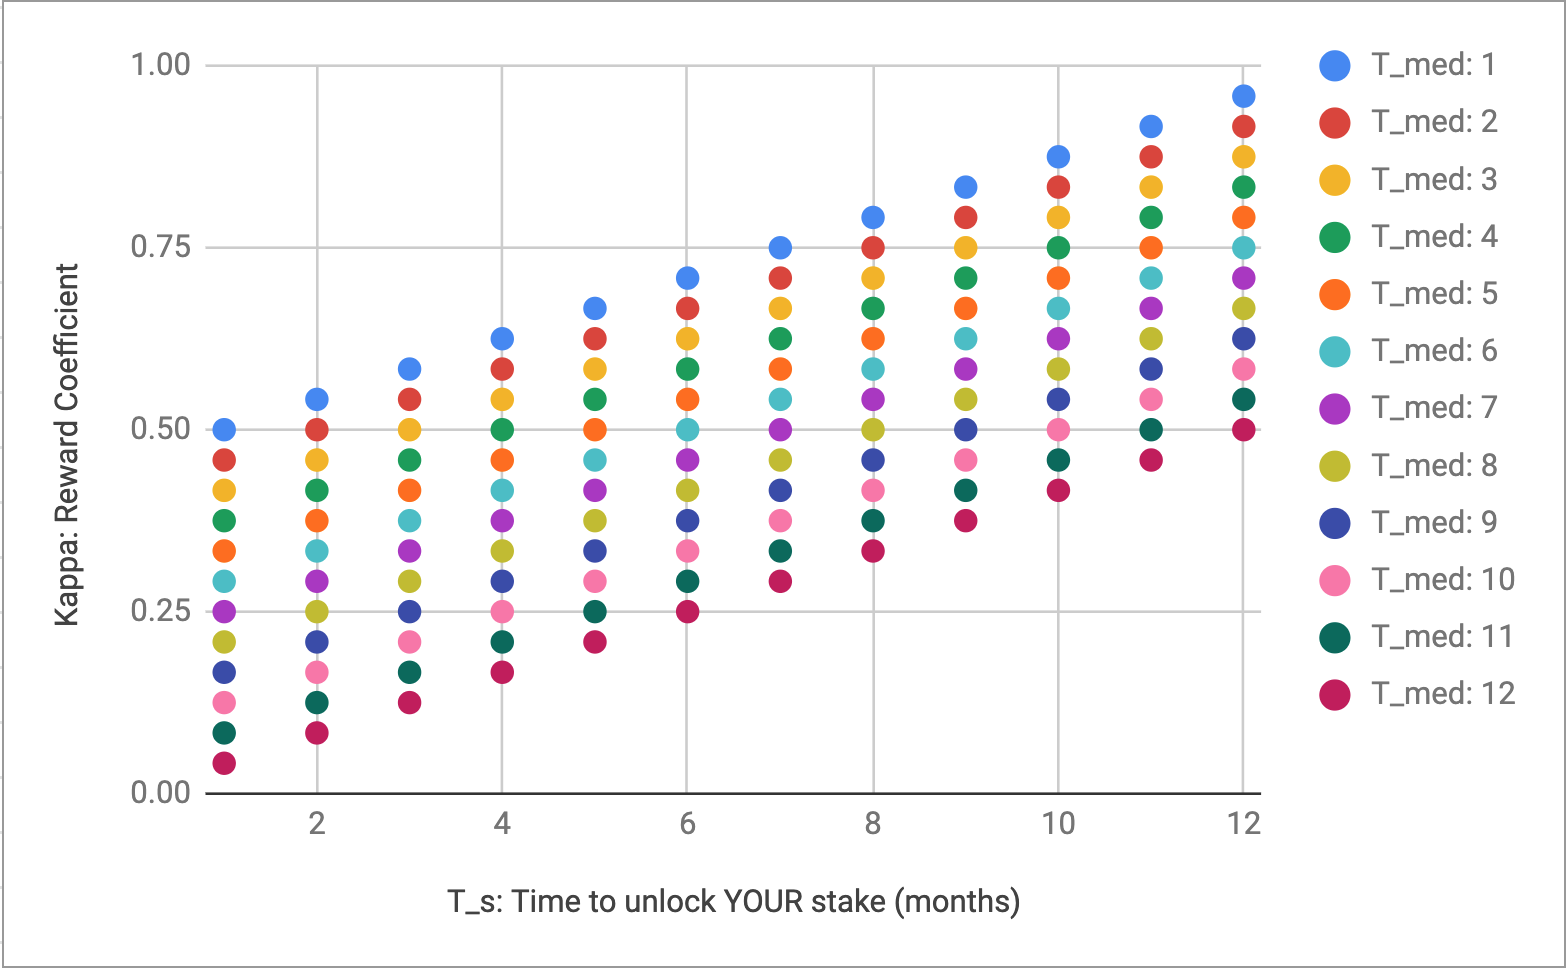
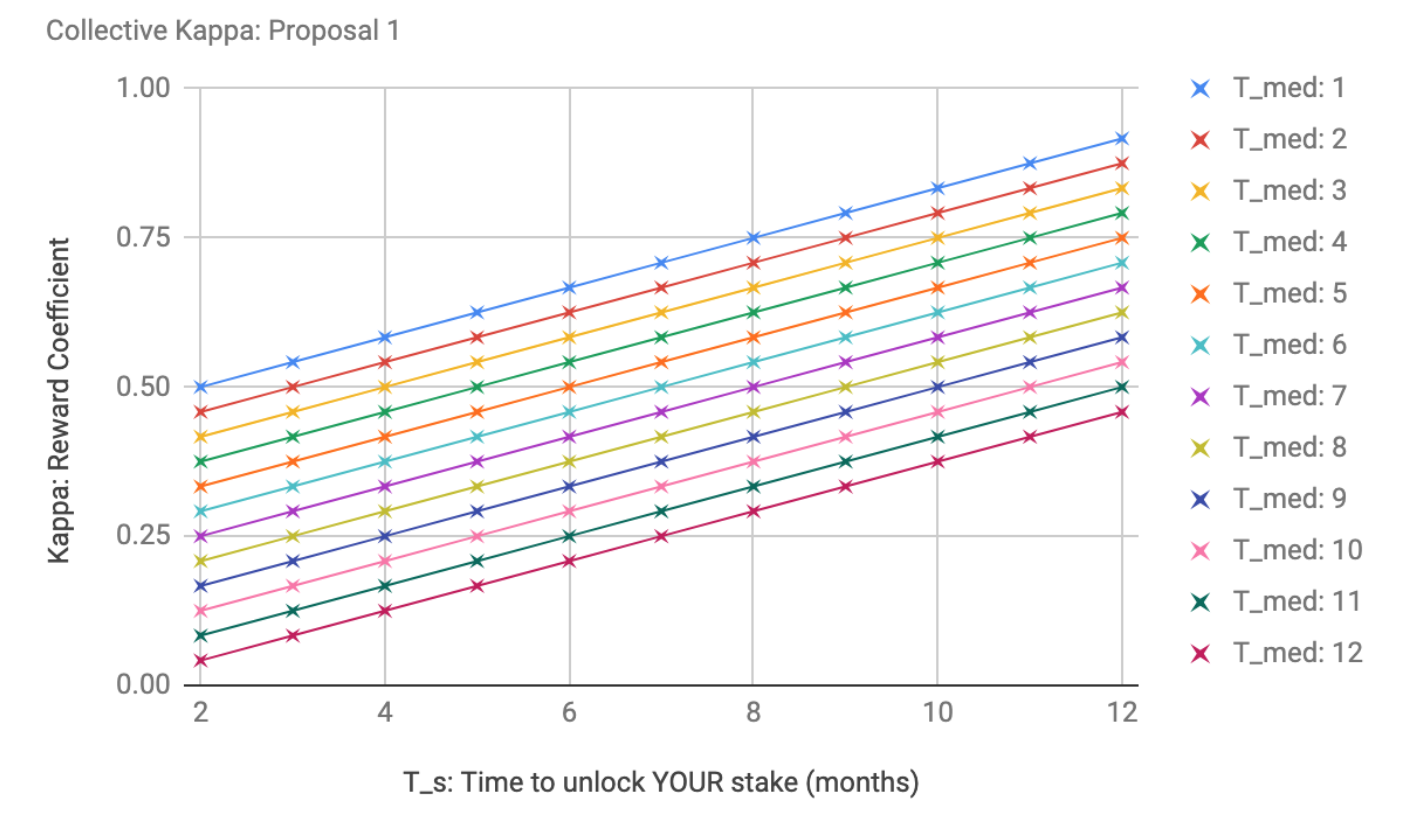
New proposal for coefficient calculation. Expansion to reasoning.

diff --git a/collective_kappa3.py b/collective_kappa3.py
@@ -1,0 +1,22 @@
+
+
+min_kappa = 0.25
+T_max = 12
+
+def calc_c_kappa(T_med, T_s):
+	if T_s < T_med + 1:
+		c_kappa = 0.25
+	else:
+		c_kappa =  min_kappa + (T_s-T_med)/float(16-T_med)
+
+	return c_kappa
+
+example_output1  = calc_c_kappa(T_med = 2, T_s = 3)
+print(example_output1)
+#0.32
+example_output2  = calc_c_kappa(T_med = 10, T_s = 11)
+print(example_output2)
+#0.42
+example_output3  = calc_c_kappa(T_med = 4, T_s = 11)
+print(example_output3)
+#0.83

diff --git a/collective_kappa.md b/collective_kappa.md
@@ -2,28 +2,30 @@
 
 #### Problem #### 
 
-Currently, stakers choose to lock their NU tokens for a variety of durations, in units of month. The staker's inflation-based rewards are modified by the reward coefficient 'kappa', which can be any of 12 discrete figures between 0.54 (= 1 month lock) and 1.0 (>= 12 months lock) – 0.54, 0.58, 0.63, etc. The longer you commit your stake, the higher the coefficient. 
+Currently, stakers/workers choose to lock their NU tokens for a variety of durations, in units of month. The staker's inflation-based rewards are modified by the reward coefficient 'kappa', which can be any of 12 discrete figures between 0.54 (= 1 month lock) and 1.0 (>= 12 months lock) – 0.54, 0.58, 0.63, etc. The longer you commit your stake, the higher the coefficient.
 
-However, this coefficient is static with respect to the choices of other stakers, despite the fact that their collective choice have a profound effect on the utility of the network, particularly if too many stakers choose short durations (1, 2 months etc). 
+However, this reward coefficient is determined entirely by the individual staker’s choice of duration, and is completely static with regard to the wider reality of the network, and more specifically, what other stakers have chosen for their durations. It is the aggregate of stakers’ choices that truly impacts the utility of the network, and yet this has no bearing whatsoever on the kappa coefficient. If too many stakers choose short durations, this can seriously impede network users.
 
 For the sake of argument, let's say that stakers choose short durations for any of the following three preferences:
 1. to protect their assets against risk (e.g. the NU token significantly depreciating while their holding is locked)
 2. to minimise opportunity costs (e.g. not being able to afford to migrate capital over to another more promising network)
 3. to afford real-world short-term spending requirements (e.g. paying a monthly bill to an ISP).
 
-Obviously, the actual list of preferences (i.e. explanations) for short term staking is longer, more complicated, and probably impossible to exhaustively produce. However, even if our three-point list did cover all possible preferences, it would still be very, very difficult to predict the strength of preference for each amongst a group of stakers at any given moment (as the population of stakers  and individual staker preferences change over time). Although a higher reward coefficient (i.e. extra compensation) for longer staking is specifically designed to counter-act the preference for shorter staking, as designers we have no real idea how strongly those preferences are held by stakers, what they're worth in money terms, or even what all those preferences are. The inability to predict or quantify these preferences means it is far from guaranteed we will parameterize the corresponding reward coefficient correctly in advance.
+Obviously, the actual list of preferences (i.e. explanations) for short term staking is longer, more complicated, and probably impossible to exhaustively produce. However, even if our three-point list did cover all possible preferences, it would still be very, very difficult to predict the strength of preference for each amongst a group of stakers at any given moment in the future. Plus, both population of stakers and each individual staker’s preferences will unpredictably change over time. Although a higher reward coefficient (i.e. extra compensation) for longer staking is specifically designed to counteract the preference for shorter staking, the problem is that we as designers have no real idea how strongly those preferences are held, what they're worth in money terms, or even what all of those preferences are. The inability to predict or quantify these preferences means it is far from guaranteed we will parameterize the corresponding reward coefficient correctly in advance of network launch, or even through updates later (although later updates allow observation-based changes to the coefficient, it may already be too late to save the network).
 
 Launching the network with parameters that mismatch our stakers' preferences is problematic, or indeed if this incongruence occurs at any point while the network is live. For example, if the coefficient for longer staking is not enough to persuade a sufficient number of stakers to commit for long periods, this may lead to network users being unable to issue long term sharing policies, particularly if they require larger numbers of independent stakers to faciliate their sharing flow. This may also undermine user confidence in the long-term reliability of the network. An excessive amount of short stake durations can also cause greater token price volatility. 
 
 #### Solution #### 
 
-A solution to this problem is to implement a flexible, self-correcting reward coefficient, driven by the staking duration decisions of all network participants. Ideally, we want to legislate against group swings to either extreme (majority choosing short durations or majority choosing long durations).
+A solution to this problem is to implement a flexible, self-correcting reward coefficient, driven by the staking duration decisions of all network participants. Ideally, we want to legislate against group swings to either extreme (majority choosing short durations or majority choosing long durations) – but we have a general preference for longer-term staking, since the implications for network utility are far less severe. 
 
-Our desired algorithm will do the following: if a majority of stakers have chosen short durations, the reward coefficient increases for stakers who now choose longer durations, and decreases for stakers who now choose shorter durations. And vice versa. This provides extra incentive to go against the crowd, thereby providing a balancing mechanism. 
+Our desired algorithm will do the following: if a majority of stakers have chosen short durations, the reward coefficient increases for stakers who now choose longer durations, and decreases for stakers who now choose shorter durations. And vice versa. 
 
-Note: to avoid stakers gaming the system, the reward coefficient can be calculated at the moment the staker formally chooses and submits their duration for a given set of tokens, and this will stay fixed at that rate until the tokens unlock. It would also help stakers a lot if the current median duration of stakes was accessible via the CLI or other staker interface, so they can make an informed decision. 
+This provides an extra incentive to go against the crowd, thereby providing a balancing mechanism. We cannot predict the future external factors that will collectively influence the stakers’ commitment length to the network, so instead we can attempt to capture these factors via the collective preferences of stakers, and use these to modify the reward coefficient appropriately. 
 
-Note: this approach will have an impact on the rate of token release - this needs to be thought about. 
+Note: to avoid stakers gaming the system, the reward coefficient can be calculated at the moment the staker formally chooses and submits their duration for a given set of tokens, and then can stay fixed at that rate until those tokens unlock. It would also help stakers a lot if the current average duration of stakes, and therefore the going reward rates, were accessible via the CLI or notherother staker-facing interface, so they can make an informed decision.
+
+Note: this approach will impact the rate of tokens released. 
 
 #### Historical Examples #### 
 
@@ -55,9 +57,11 @@ One criticism of their approach is this function's reliance on predefining a tar
 
 #### Input variable: T_med #### 
 
-What is the input variable with which to modify our reward coefficient? There are actually a number of possibilities here – since stakers can theoretically divide their stake into as many durations as the number of tokens they own, the overall distribution of stake durations is rather complex. However, a simple approach is to line up all the tokens already staked by their individual duration attribute (from 1 to <12). For now, we can ignore who owns the token or how long their other tokens are staked for. From this two-column table it is straightforward to derive the median duration of all staked tokens. We will use this variable, T_med, as our input, which will always be in discrete units of month (e.g. T_med = 4 months). 
+What is the input variable with which to modify our reward coefficient? There are actually a number of possibilities here – because stakers can theoretically divide their stake into as many durations as the number of tokens they own. However, a simple approach is to line up all the tokens already staked by their individual duration attribute (from 1 to <12). For now, we can ignore who owns the token or how long their other tokens are staked for. From this two-column table it is straightforward to derive the mean, weighted mean or median duration of all staked tokens. We will use this variable, T_med, as our input, which will always be in discrete units of month (e.g. T_med = 4 months). 
 
 #### Modifying the reward coefficient: c_kappa #### 
+
+*Proposal 1*
 
 The following python function computes a reward coefficient for a stake with a chosen a duration of T_s, where the current median duration of stakes is T_med. The output coefficient is normalised between 0 and 1.
 
@@ -96,8 +100,64 @@ To get a sense of the outputs, here are all the combinatins of T_s and T_med. Fo
 | T_s: 12 | 0.96     | 0.92     | 0.88     | 0.83     | 0.79     | 0.75     | 0.71     | 0.67     | 0.63     | 0.58      | 0.54      | 0.50      |
 
 
-![Visualised outputs in a scatter graph](collective_kappa_outputs.png)
+![Proposal 1: visualised outputs in a scatter graph](collective_kappa_outputs.png)
 
+*Proposal 2*
+
+Based on @michwill’s suggestion to swap T_med = 1 and T_med = 12. 
+
+![Proposal 2: visualised outputs in a scatter graph](collective_kappa_outputs2.png)
+
+*Proposal 3*
+
+This algorithm uses a varying output gradient (see graph below) in order to to: 
+1) fulfil the original purpose of collective kappa – namely, to provide extra rewards for going against the crowd (particularly when the average staking duration is dangerously short). 
+But simultaneously goes some way to:
+2) avoid the issue of **overly** rewarding short duration stakers, in the scenario where the average staking duration is very short, **relative** to two other possible configurations:
+ a) choosing a longer choice of staking duration in the same scenario 
+ b) choosing the same (short) staking duration in other scenarios (e.g. when the average staking duration is very long)
+
+```sh
+min_kappa = 0.25
+T_max = 12
+
+def calc_c_kappa(T_med, T_s):
+    if T_s < T_med + 1:
+        c_kappa = 0.25
+    else:
+        c_kappa =  min_kappa + (T_s-T_med)/float(16-T_med)
+
+    return c_kappa
+
+example_output1  = calc_c_kappa(T_med = 2, T_s = 3)
+print(example_output1)
+#0.32
+example_output2  = calc_c_kappa(T_med = 10, T_s = 11)
+print(example_output2)
+#0.42
+example_output3  = calc_c_kappa(T_med = 4, T_s = 11)
+print(example_output3)
+#0.83
+
+```
+Full coefficient output table:
+
+|         | T_med: 1 | T_med: 2 | T_med: 3 | T_med: 4 | T_med: 5 | T_med: 6 | T_med: 7 | T_med: 8 | T_med: 9 | T_med: 10 | T_med: 11 | T_med: 12 |
+|---------|----------|----------|----------|----------|----------|----------|----------|----------|----------|-----------|-----------|-----------|
+| T_s: 1  | 0.25     | 0.25     | 0.25     | 0.25     | 0.25     | 0.25     | 0.25     | 0.25     | 0.25     | 0.25      | 0.25      | 0.25      |
+| T_s: 2  | 0.32     | 0.25     | 0.25     | 0.25     | 0.25     | 0.25     | 0.25     | 0.25     | 0.25     | 0.25      | 0.25      | 0.25      |
+| T_s: 3  | 0.38     | 0.32     | 0.25     | 0.25     | 0.25     | 0.25     | 0.25     | 0.25     | 0.25     | 0.25      | 0.25      | 0.25      |
+| T_s: 4  | 0.45     | 0.39     | 0.33     | 0.25     | 0.25     | 0.25     | 0.25     | 0.25     | 0.25     | 0.25      | 0.25      | 0.25      |
+| T_s: 5  | 0.52     | 0.46     | 0.40     | 0.33     | 0.25     | 0.25     | 0.25     | 0.25     | 0.25     | 0.25      | 0.25      | 0.25      |
+| T_s: 6  | 0.58     | 0.54     | 0.48     | 0.42     | 0.34     | 0.25     | 0.25     | 0.25     | 0.25     | 0.25      | 0.25      | 0.25      |
+| T_s: 7  | 0.65     | 0.61     | 0.56     | 0.50     | 0.43     | 0.35     | 0.25     | 0.25     | 0.25     | 0.25      | 0.25      | 0.25      |
+| T_s: 8  | 0.72     | 0.68     | 0.63     | 0.58     | 0.52     | 0.45     | 0.36     | 0.25     | 0.25     | 0.25      | 0.25      | 0.25      |
+| T_s: 9  | 0.78     | 0.75     | 0.71     | 0.67     | 0.61     | 0.55     | 0.47     | 0.38     | 0.25     | 0.25      | 0.25      | 0.25      |
+| T_s: 10 | 0.85     | 0.82     | 0.79     | 0.75     | 0.70     | 0.65     | 0.58     | 0.50     | 0.39     | 0.25      | 0.25      | 0.25      |
+| T_s: 11 | 0.92     | 0.89     | 0.87     | 0.83     | 0.80     | 0.75     | 0.69     | 0.63     | 0.54     | 0.42      | 0.25      | 0.25      |
+| T_s: 12 | 0.98     | 0.96     | 0.94     | 0.92     | 0.89     | 0.85     | 0.81     | 0.75     | 0.68     | 0.58      | 0.45      | 0.25      |
+
+![Proposal 3: visualised outputs in a scatter graph](collective_kappa_outputs3.png)
 
 
 #### Expected Outcomes ####
